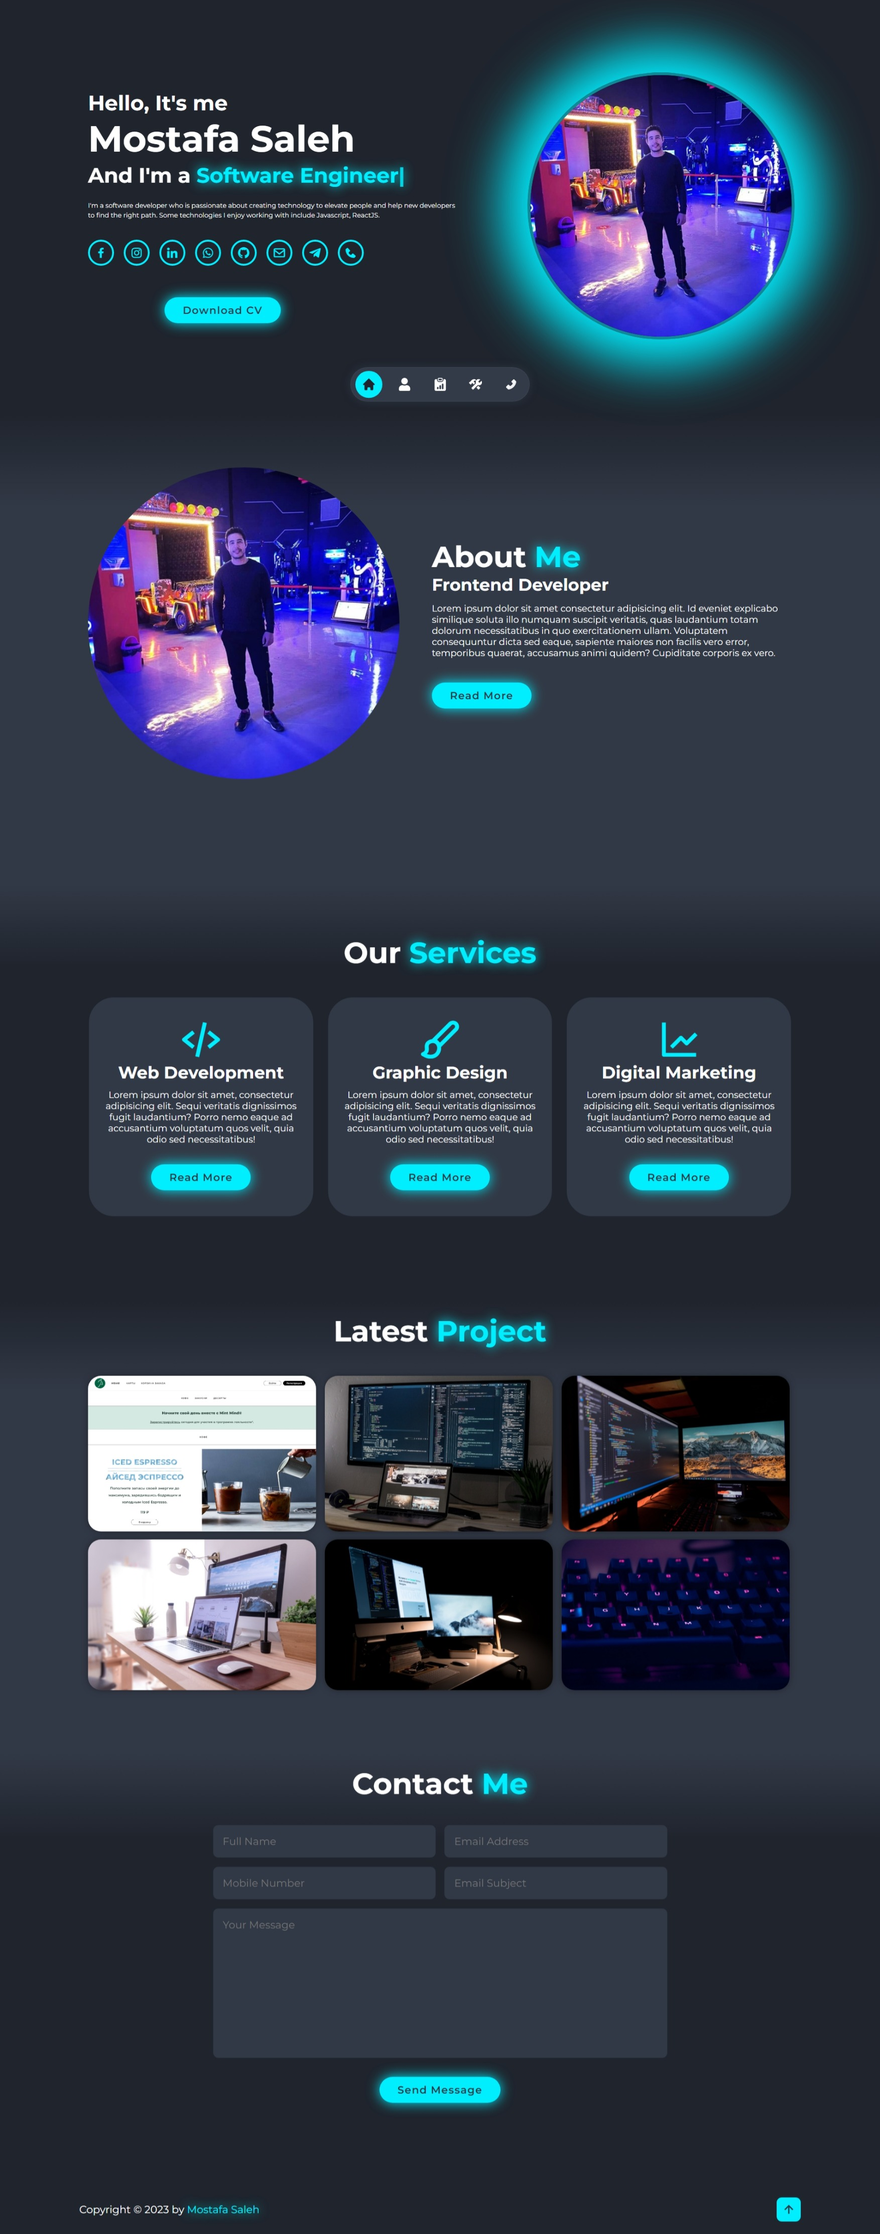
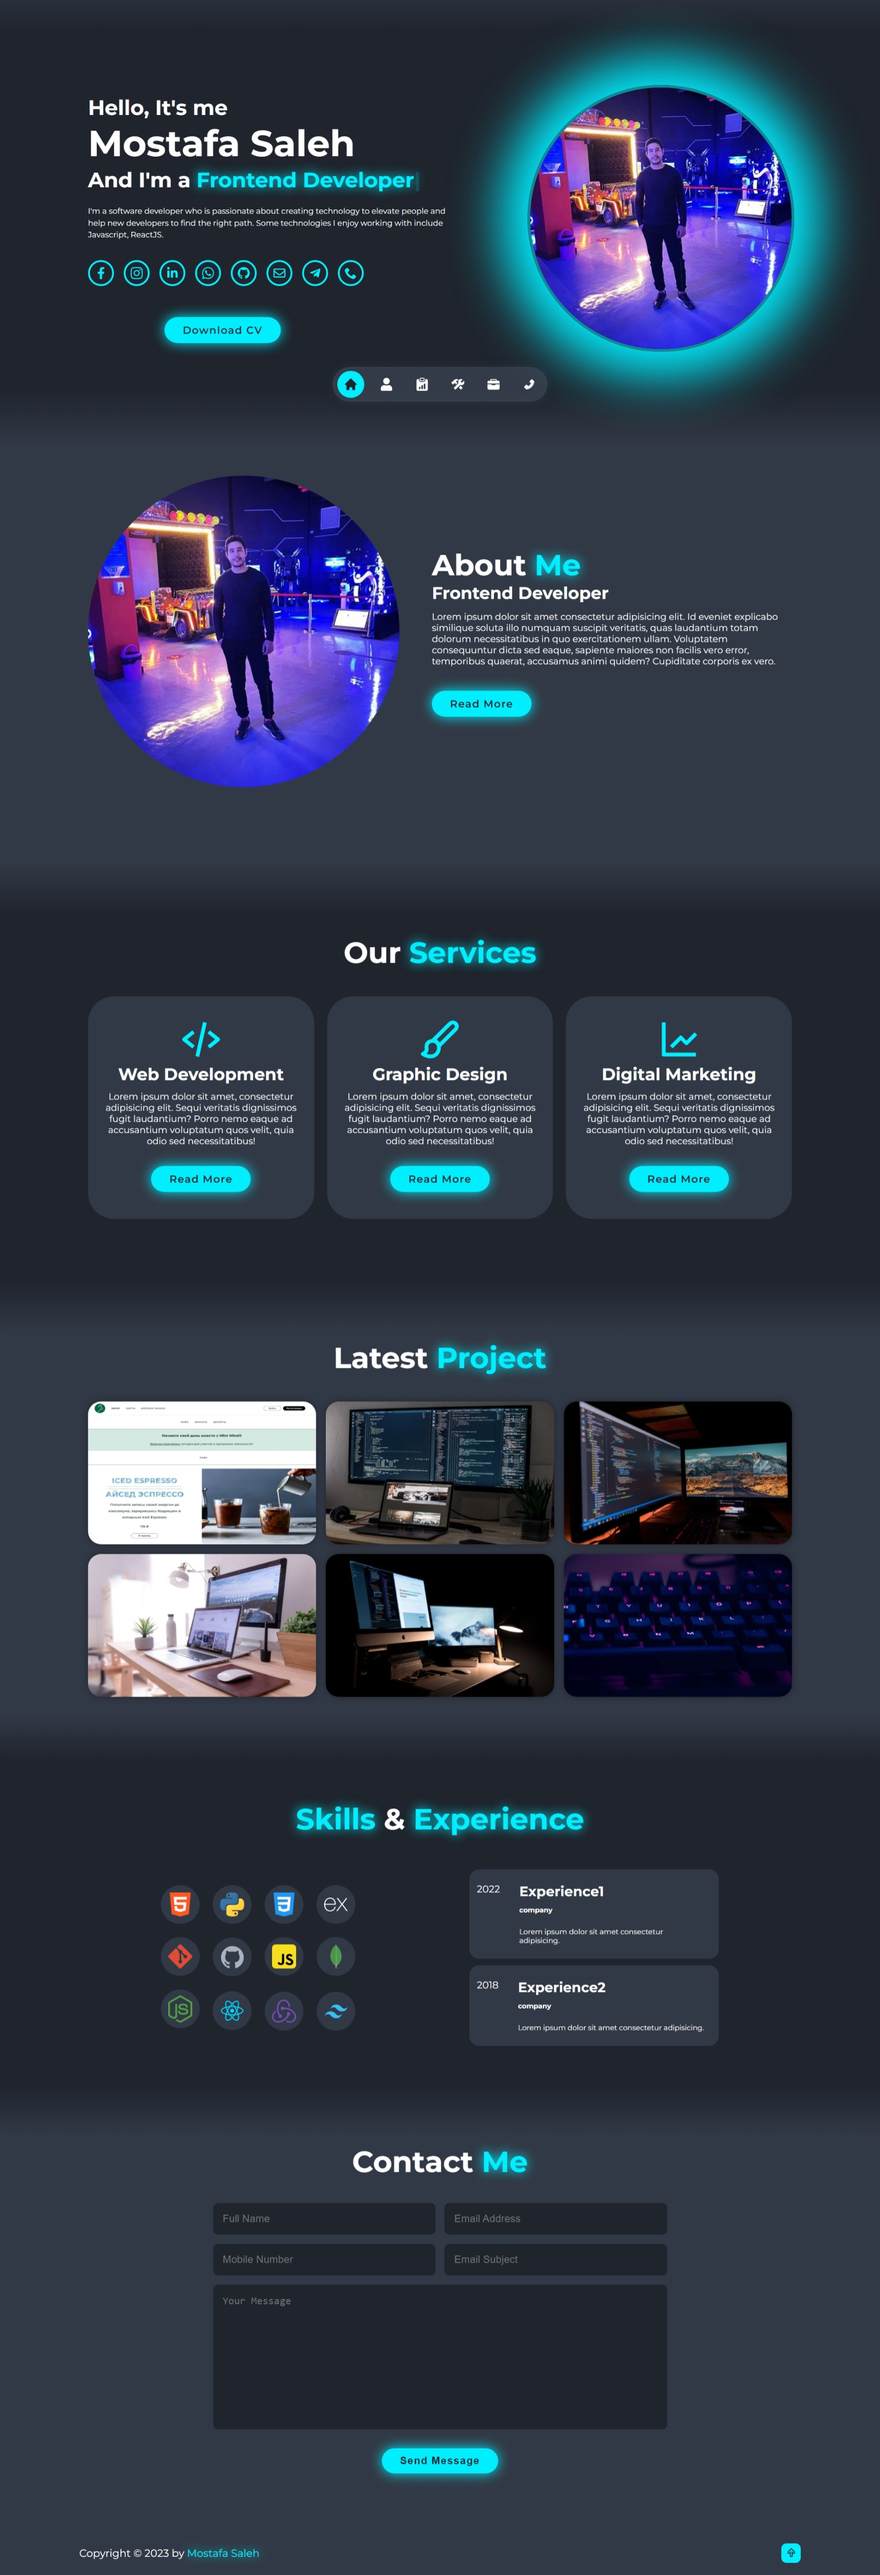
adding scroll reveal effects to the skills section

diff --git a/src/animations/RevealEffect.js b/src/animations/RevealEffect.js
@@ -13,7 +13,7 @@ export const RevealEffect = () => {
             });
 
             ScrollReveal().reveal('.heading, .about h2', { origin: 'top' });
-            ScrollReveal().reveal('.about img, .services-container, .portfolio-box, .contact form, .about-content', { origin: 'bottom' });
+            ScrollReveal().reveal('.about img, .services-container, .portfolio-box, .contact form, .about-content, .technologies, .experience', { origin: 'bottom' });
         }
         else {
             ScrollReveal({
@@ -25,8 +25,8 @@ export const RevealEffect = () => {
 
             ScrollReveal().reveal('.heading, .about h2', { origin: 'top' });
             ScrollReveal().reveal('.services-container, .portfolio-box, .contact .input-box, textarea, .about-content, .footer', { origin: 'bottom' });
-            ScrollReveal().reveal('.home img', { origin: 'right' });
-            ScrollReveal().reveal('.about img', { origin: 'left' });
+            ScrollReveal().reveal('.home img, .experience', { origin: 'right' });
+            ScrollReveal().reveal('.about img, .technologies', { origin: 'left' });
         }
     }, []);
 }

diff --git a/src/Main/about/about.css b/src/Main/about/about.css
@@ -3,6 +3,7 @@
     justify-content: center;
     align-items: center;
     gap: 5rem;
+    padding: 5vh 10% 13vh;
 }
 
 .about-img img {

diff --git a/src/index.css b/src/index.css
@@ -53,7 +53,7 @@ body {
 }
 
 section {
-    padding: 5vh 10% 13vh;
+    padding: 9vh 10% 9vh;
     position: relative;
 }
 
